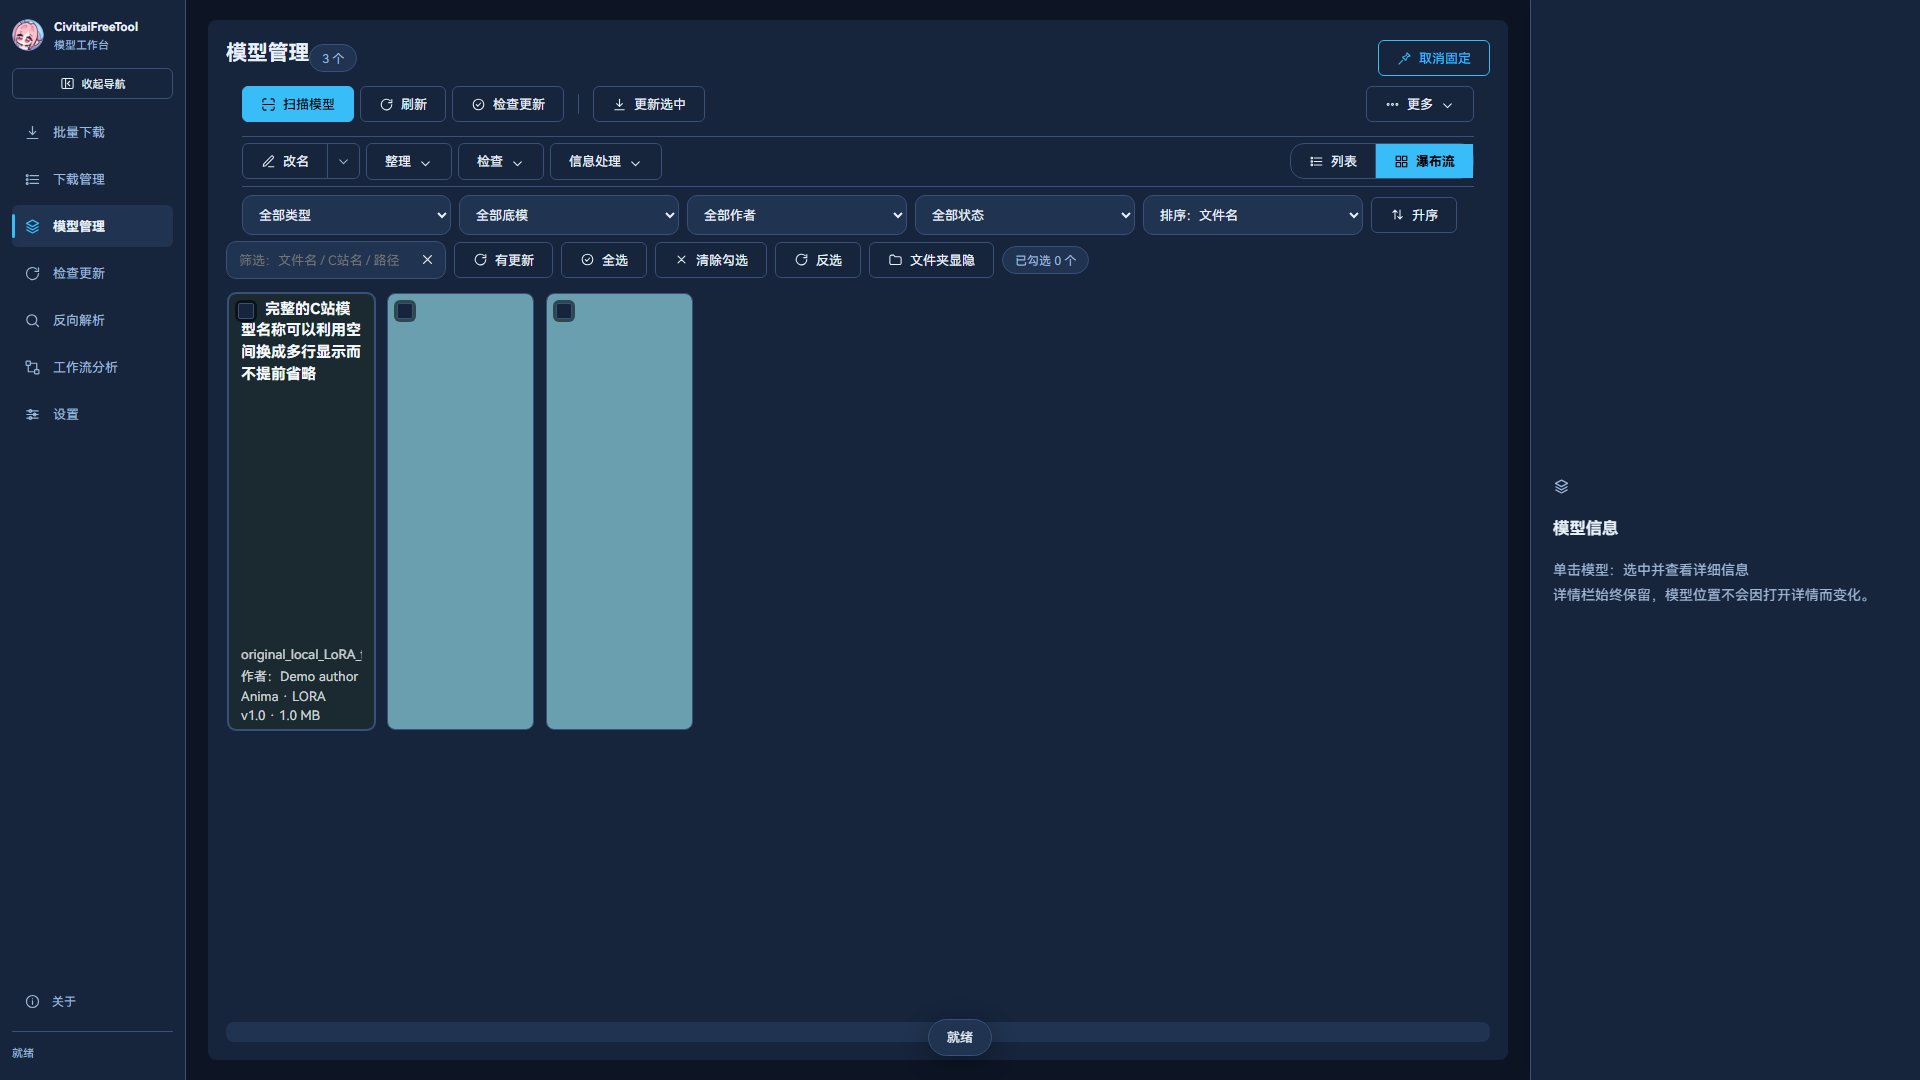
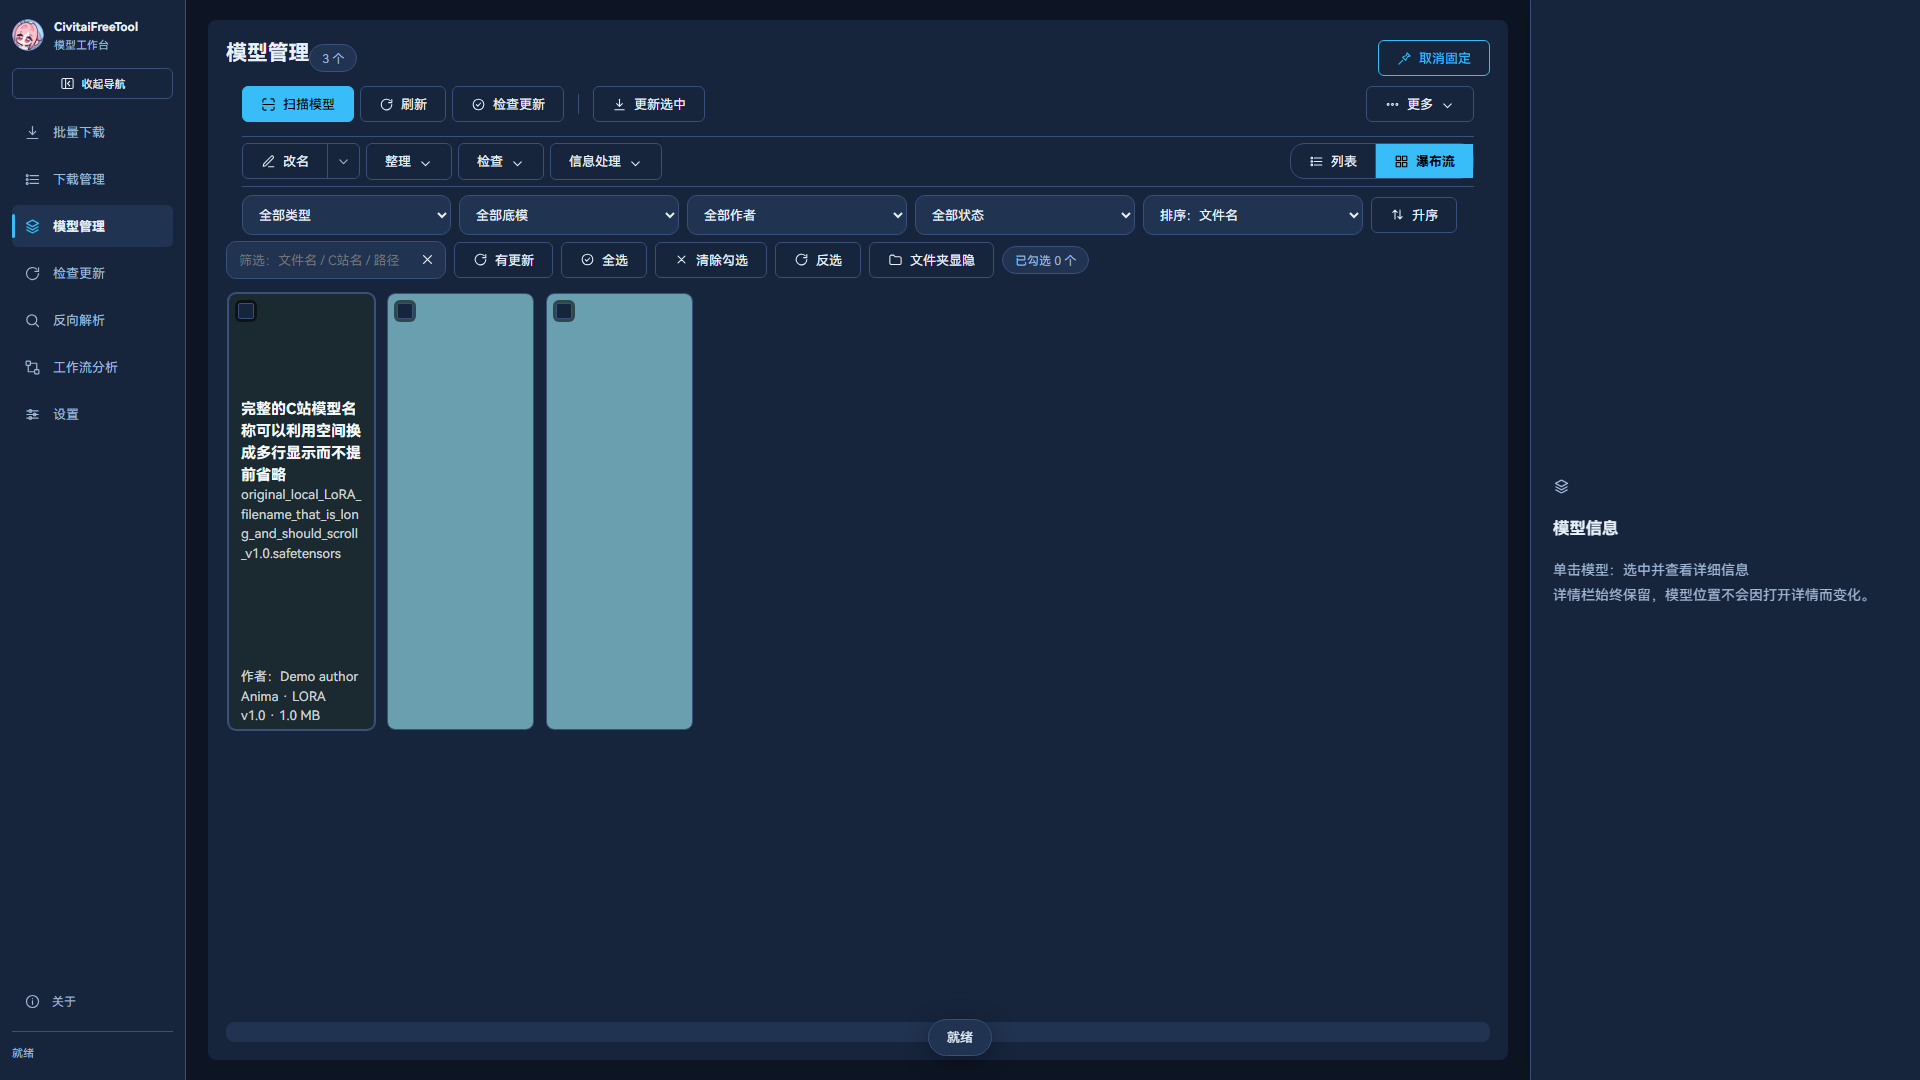
v2.6.21: center adaptive model names above fixed metadata

Changed region(s): [[0.125, 0.275, 0.1875, 0.5194], [0.125, 0.5806, 0.1875, 0.6111]]

diff --git a/web/model-name-scroll.js b/web/model-name-scroll.js
@@ -1,7 +1,7 @@
 /* Only clipped model names animate. Offscreen names and hidden pages are paused. */
 (()=>{
   const selectors='.ms-name,.ms-sub,#mmTable .ml-1,#mmTable .ml-2,.upd-nm,.rp-fname,#dlTable .c-file>div:first-child,#dlHistoryTable .history-file-name,#dlHistoryTable .history-model';
-  const records=new Map(),phases=new Map(),motion=matchMedia('(prefers-reduced-motion: reduce)');let scheduled=false;
+  const records=new Map(),phases=new Map(),measurements=new WeakMap(),areas=new Set(),motion=matchMedia('(prefers-reduced-motion: reduce)');let scheduled=false;
   const schedule=()=>{if(!scheduled){scheduled=true;requestAnimationFrame(refresh);}};
   const resize=new ResizeObserver(schedule);
   const visible=new IntersectionObserver(entries=>{for(const e of entries){const r=records.get(e.target);if(r)r.visible=e.isIntersecting;}schedule();});
@@ -10,12 +10,39 @@
     const speed=bounded('name_scroll_speed',70,10,240),start=bounded('name_scroll_start_pause',350,0,5000),end=bounded('name_scroll_end_pause',250,0,5000);
     return {speed,start,end,signature:[speed,start,end].join(':')};
   }
+  function wrappedHeight(el,zoom){
+    const css=getComputedStyle(el),text=el.querySelector('.name-scroll-text')?.textContent||el.textContent;
+    const width=Math.max(1,el.clientWidth-parseFloat(css.paddingLeft)-parseFloat(css.paddingRight));
+    const key=[text,width,css.font,css.lineHeight,css.letterSpacing,css.textIndent].join('|');
+    const cached=measurements.get(el);if(cached?.key===key)return cached.height;
+    const probe=document.createElement('div');probe.textContent=text;
+    Object.assign(probe.style,{position:'absolute',visibility:'hidden',pointerEvents:'none',width:width+'px',font:css.font,lineHeight:css.lineHeight,letterSpacing:css.letterSpacing,textIndent:css.textIndent,whiteSpace:'normal',overflowWrap:'anywhere',padding:'0',margin:'0'});
+    document.body.append(probe);const height=probe.getBoundingClientRect().height/zoom+parseFloat(css.paddingTop)+parseFloat(css.paddingBottom);probe.remove();measurements.set(el,{key,height});return height;
+  }
+  function layoutFullNames(full,zoom){
+    if(!full)return;
+    document.querySelectorAll('.ms-titles').forEach(area=>{if(!areas.has(area)){areas.add(area);resize.observe(area);}
+      if(!area.clientHeight)return;
+      const title=area.querySelector('.ms-name'),local=area.querySelector('.ms-sub');
+      if(title.dataset.civitaiName!=='true'){
+        const mode=wrappedHeight(title,zoom)<=area.clientHeight+1?'true':'false';if(title.dataset.localWrap!==mode)title.dataset.localWrap=mode;const room=(area.clientHeight-(mode==='true'?wrappedHeight(title,zoom):title.clientHeight))/2>26?'true':'false';if(area.dataset.nameRoom!==room)area.dataset.nameRoom=room;return;
+      }
+      const css=getComputedStyle(title),line=parseFloat(css.lineHeight)||22,pad=parseFloat(css.paddingTop)+parseFloat(css.paddingBottom);
+      const localCss=local?getComputedStyle(local):null,reserve=localCss?(parseFloat(localCss.lineHeight)||20)+parseFloat(localCss.paddingTop)+parseFloat(localCss.paddingBottom):0;
+      const lines=String(Math.max(1,Math.floor((area.clientHeight-reserve-pad)/line)));
+      if(title.style.getPropertyValue('--ms-title-lines')!==lines)title.style.setProperty('--ms-title-lines',lines);
+      if(local){const room=area.clientHeight-title.getBoundingClientRect().height/zoom;const mode=wrappedHeight(local,zoom)<=room+1?'true':'false';if(local.dataset.localWrap!==mode)local.dataset.localWrap=mode;}
+      const group=title.getBoundingClientRect().height/zoom+(local?local.getBoundingClientRect().height/zoom:0),room=(area.clientHeight-group)/2>26?'true':'false';if(area.dataset.nameRoom!==room)area.dataset.nameRoom=room;
+    });
+  }
   function refresh(){
     scheduled=false;
+    for(const area of areas)if(!area.isConnected){resize.unobserve(area);areas.delete(area);}
     for(const [el,r] of records)if(!el.isConnected){if(r.animation){phases.set(r.key,{time:r.animation.currentTime||0,when:performance.now(),signature:r.signature});if(phases.size>256)phases.delete(phases.keys().next().value);}r.animation?.cancel();resize.unobserve(el);visible.unobserve(el);records.delete(el);}
-    const full=document.documentElement.dataset.masonryInfo!=='always'&&document.documentElement.dataset.masonryOverlay==='full';
+    const full=document.documentElement.dataset.masonryInfo!=='always'&&document.documentElement.dataset.masonryOverlay==='full',zoom=parseFloat(getComputedStyle(document.documentElement).zoom)||1;
+    layoutFullNames(full,zoom);
     document.querySelectorAll(selectors).forEach(el=>{
-      if(full&&el.matches('.ms-name[data-civitai-name=true]')){
+      if(full&&el.matches('.ms-name[data-civitai-name=true],.ms-name[data-local-wrap=true],.ms-sub[data-local-wrap=true]')){
         const old=records.get(el);if(old?.kind==='wrap')return;
         old?.animation?.cancel();const viewport=el.querySelector('.name-scroll-viewport');if(viewport)viewport.replaceWith(document.createTextNode(viewport.textContent));
         el.classList.remove('has-name-scroll');if(!el.title)el.title=el.textContent.trim();records.set(el,{kind:'wrap',visible:false,animation:null});resize.observe(el);return;
@@ -27,13 +54,9 @@
       texts[0].before(viewport);texts.forEach(n=>n.remove());el.classList.add('has-name-scroll');if(!el.title)el.title=name;
       const owner=el.closest('[data-path],[data-task-id],[data-history-id]'),key=(owner?.dataset.path||owner?.dataset.taskId||owner?.dataset.historyId||'')+'|'+name;const old=records.get(el);old?.animation?.cancel();records.set(el,{kind:'scroll',viewport,text,key,visible:false,distance:0,animation:null});resize.observe(el);visible.observe(el);
     });
-    const zoom=parseFloat(getComputedStyle(document.documentElement).zoom)||1,prefs=options();
+    const prefs=options();
     for(const [el,r] of records){
-      if(r.kind==='wrap'){
-        const css=getComputedStyle(el),line=parseFloat(css.lineHeight)||22,space=el.clientHeight-parseFloat(css.paddingTop)-parseFloat(css.paddingBottom),lines=String(Math.max(1,Math.floor(space/line)));
-        if(el.style.getPropertyValue('--ms-title-lines')!==lines)el.style.setProperty('--ms-title-lines',lines);
-        continue;
-      }
+      if(r.kind==='wrap')continue;
       if(r.signature!==prefs.signature){const changed=r.signature!==undefined;r.animation?.cancel();r.animation=null;r.signature=prefs.signature;if(changed)phases.delete(r.key);r.viewport.classList.remove('running');}
       const distance=Math.max(0,Math.ceil(r.text.getBoundingClientRect().width/zoom-r.viewport.clientWidth));
       if(distance!==r.distance||motion.matches){r.animation?.cancel();r.animation=null;r.distance=distance;r.viewport.classList.remove('running');}

diff --git a/web/workbench.css b/web/workbench.css
@@ -545,3 +545,16 @@ html[data-masonry-info]:not([data-masonry-info=always])[data-masonry-overlay=ful
 html[data-masonry-info]:not([data-masonry-info=always])[data-masonry-overlay=full] .ms-size{padding-bottom:3px;}
 
 html[data-masonry-info]:not([data-masonry-info=always])[data-masonry-overlay=full] .ms-name:not([data-civitai-name=true]){flex:none;padding:4px 12px 0 36px;}
+
+/* Names stay together. Only the metadata footer is pinned to the bottom. */
+html[data-masonry-info]:not([data-masonry-info=always])[data-masonry-overlay=full] .ms-titles{flex:1 1 0;min-height:calc(26px * var(--type-scale,1));overflow:hidden;}
+html[data-masonry-info]:not([data-masonry-info=always])[data-masonry-overlay=full] .ms-titles:has(.ms-sub){min-height:calc(46px * var(--type-scale,1));}
+html[data-masonry-info]:not([data-masonry-info=always])[data-masonry-overlay=full] .ms-titles .ms-name{flex:none;min-height:0;}
+html[data-masonry-info]:not([data-masonry-info=always])[data-masonry-overlay=full] .ms-sub[data-local-wrap=true],
+html[data-masonry-info]:not([data-masonry-info=always])[data-masonry-overlay=full] .ms-name[data-civitai-name=false][data-local-wrap=true]{display:block!important;white-space:normal!important;overflow-wrap:anywhere;-webkit-line-clamp:unset;text-overflow:clip;}
+
+/* Center both names together within the space above the unchanged footer. */
+html[data-masonry-info]:not([data-masonry-info=always])[data-masonry-overlay=full] .ms-titles{display:flex;flex-direction:column;justify-content:safe center;}
+
+html[data-masonry-info]:not([data-masonry-info=always])[data-masonry-overlay=full] .ms-titles[data-name-room=true] .ms-name{text-indent:0;}
+html[data-masonry-info]:not([data-masonry-info=always])[data-masonry-overlay=full] .ms-titles[data-name-room=true] .ms-name[data-civitai-name=false]{padding-left:12px;}

diff --git a/web/app.js b/web/app.js
@@ -1734,9 +1734,9 @@ function renderMasonry(rows) {
       _msTag(r) +
       (r.upd && r.upd.has_update ? '<a href="#" class="ms-upd" data-url="' + esc(r.upd.url || "") + '" title="' + esc(updTip(r.upd)) + '">' + _icon("alert") + '</a>' : "") +
       '<div class="ms-img-wrap" data-ph="loading"><img class="ms-img" data-idx="' + i + '" data-path="' + esc(r.path) + '" alt=""/></div>' +
-      '<div class="ms-info"><div class="ms-name" data-civitai-name="' + (_cn ? 'true' : 'false') + '">' + (isModelFavorite(r.path)?_icon('star','ic model-star'):'') + esc(_disp) + "</div>" +
-      '<div class="ms-footer">' +
+      '<div class="ms-info"><div class="ms-titles"><div class="ms-name" data-civitai-name="' + (_cn ? 'true' : 'false') + '">' + (isModelFavorite(r.path)?_icon('star','ic model-star'):'') + esc(_disp) + "</div>" +
       (_sub ? '<div class="ms-sub">' + esc(_sub) + "</div>" : "") +
+      '</div><div class="ms-footer">' +
       (r.author ? '<div class="ms-author" title="' + esc(r.author) + '">作者：' + esc(r.author) + '</div>' : '') +
       '<div class="ms-meta">' + esc(_meta || (r.type || "-")) + "</div>" +
       '<div class="ms-size">' + esc(_meta2 || fmtSize(r.size)) + "</div></div></div></div>";

diff --git a/webui.py b/webui.py
@@ -13,7 +13,7 @@ import time
 
 import webview
 
-APP_VERSION = "2.6.20"
+APP_VERSION = "2.6.21"
 
 import civitai_api
 import config

diff --git a/README.md b/README.md
@@ -2,13 +2,13 @@
 
 > 免费的 Civitai / HuggingFace 模型下载与本地模型管理工作台。
 
-![Version](https://img.shields.io/badge/version-2.6.20-blue) ![Platform](https://img.shields.io/badge/platform-Windows%20%7C%20Linux%20%7C%20macOS-orange) ![CI](https://github.com/ADVICEsama/CivitaiFreeTool/workflows/tests/badge.svg)
+![Version](https://img.shields.io/badge/version-2.6.21-blue) ![Platform](https://img.shields.io/badge/platform-Windows%20%7C%20Linux%20%7C%20macOS-orange) ![CI](https://github.com/ADVICEsama/CivitaiFreeTool/workflows/tests/badge.svg)
 
 [下载最新版](https://github.com/ADVICEsama/CivitaiFreeTool/releases/latest) · [更新日志](CHANGELOG.md) · [问题反馈](https://github.com/ADVICEsama/CivitaiFreeTool/issues) · [Linux / macOS](LINUX.md)
 
 ## 当前工作台
 
-- **名称显示与可调滚动**：整卡悬浮时 C站名称使用剩余空间换多行，放不下才省略；本地 LoRA 文件名单行滚动，作者、类型、版本及大小置底。外观设置可调速度和首尾停顿，默认 70px/秒、350/250 毫秒。短单行名字不动，屏幕外暂停，不改变卡片和列宽。
+- **名称显示与可调滚动**：整卡悬浮时 C站名称与本地文件名紧接为一组，在底部资料上方垂直居中。C站名优先换行、放不下才省略；本地名空间够就完整换行，不够才单行滚动。作者、类型、版本及大小置底。外观设置可调速度和首尾停顿，默认 70px/秒、350/250 毫秒。短单行名字不动，屏幕外暂停，不改变卡片和列宽。
 - **原生窗口恢复**：首次加载后核实窗口真的可见；重复打开按实例 PID 恢复窗口，不误认同名文件管理器，不擅自改浏览器模式。
 - **瀑布流悬浮介绍**：设置 → 外观与布局可选常驻、封面悬停滑出或淡入；覆盖下方或整个卡片。深色半透明底 + 大号文字，亮色主题自动换亮底深字，本地文件名始终单行。
 - **透明表格与宽屏适配**：原生 Mica 客户区材质可透过下载表格及斑马纹；更新页宽屏铺满、窄窗按需滚动，菜单说明不会被二级菜单盖住。
@@ -50,7 +50,7 @@
 
 ### 瀑布流：只看封面，悬停显示大号介绍
 
-左侧卡片处于悬停状态，右侧只显示封面；截图为“淡入 + 整个卡片”，主名称利用上方空间换行，辅助资料置底。支持滑出 / 淡入、部分 / 整卡片覆盖，默认仍为常驻介绍。
+左侧卡片处于悬停状态，右侧只显示封面；截图为“淡入 + 整个卡片”，两种名称相邻成组、在上方剩余区域居中，空间足够时都完整换行；辅助资料置底。支持滑出 / 淡入、部分 / 整卡片覆盖，默认仍为常驻介绍。
 
 ![整卡名称空间分配](docs/screenshots/masonry-full-names.png)
 

diff --git a/CHANGELOG.md b/CHANGELOG.md
@@ -1,4 +1,16 @@
-# CivitaiFreeTool 更新日志（v1.5.1 → v2.6.20）
+# CivitaiFreeTool 更新日志（v1.5.1 → v2.6.21）
+
+## v2.6.21：整卡双名称自适应（2026-10-10）
+
+- 修复 C站名称被强行撑满整个名称区、本地文件名被挤入底部资料，导致两种名称之间出现大块固定空隙。两种名称现在紧接排布，作为一个组在底部资料上方的剩余区域内垂直居中；作者、分类、版本与大小仍置底。
+- 整卡剩余空间足够时，本地文件名也完整换行显示，不播放滚动动画；放不下时才恢复单行滚动。卡片缩小/放大、全局字号及缩放改变后重新判断，不需要用户额外开关。
+- C站名称优先使用可用行数，能显示全就显示全，放不下才省略；为本地名至少保留一行。没有 C站信息的模型，本地名称同样按实际空间决定换行或滚动。
+- 部分覆盖及常驻样式不变；名称滚动设置保留 v2.6.20 的 70px/秒、350/250 毫秒默认值及用户自定义值。
+- 按真实字体和宽度测量文本，缓存测量结果；屏幕外动画仍暂停，临时测量元素不参与卡片布局，不移动模型文件。
+
+验证：280 项后端、484 项前端、17 项桥服务、10 项来源检查，共 791 项。整卡名称检查覆盖大卡片完整显示、小卡片恢复滚动、放大取消动画、缺失 C站名称、底部资料与设置持久化。原生窗口启动逻辑未改动；安装后另行核实原生窗口可见、队列和配置保留。
+
+发行附件：EXE、Windows 便携 ZIP、源码 ZIP、Chrome / Firefox 独立 ZIP、SHA256。扩展 v1.2.0，Firefox ZIP 未签名。配置、API Key、任务、缓存及私人备份不进入源码或发行包。
 
 ## v2.6.20：整卡名称空间分配与可调滚动（2026-10-10）
 

diff --git a/docs/releases/v2.6.21.md b/docs/releases/v2.6.21.md
@@ -1,0 +1,11 @@
+## v2.6.21：整卡双名称自适应（2026-10-10）
+
+- 修复 C站名称被强行撑满整个名称区、本地文件名被挤入底部资料，导致两种名称之间出现大块固定空隙。两种名称现在紧接排布，作为一个组在底部资料上方的剩余区域内垂直居中；作者、分类、版本与大小仍置底。
+- 整卡剩余空间足够时，本地文件名也完整换行显示，不播放滚动动画；放不下时才恢复单行滚动。卡片缩小/放大、全局字号及缩放改变后重新判断，不需要用户额外开关。
+- C站名称优先使用可用行数，能显示全就显示全，放不下才省略；为本地名至少保留一行。没有 C站信息的模型，本地名称同样按实际空间决定换行或滚动。
+- 部分覆盖及常驻样式不变；名称滚动设置保留 v2.6.20 的 70px/秒、350/250 毫秒默认值及用户自定义值。
+- 按真实字体和宽度测量文本，缓存测量结果；屏幕外动画仍暂停，临时测量元素不参与卡片布局，不移动模型文件。
+
+验证：280 项后端、484 项前端、17 项桥服务、10 项来源检查，共 791 项。整卡名称检查覆盖大卡片完整显示、小卡片恢复滚动、放大取消动画、缺失 C站名称、底部资料与设置持久化。原生窗口启动逻辑未改动；安装后另行核实原生窗口可见、队列和配置保留。
+
+发行附件：EXE、Windows 便携 ZIP、源码 ZIP、Chrome / Firefox 独立 ZIP、SHA256。扩展 v1.2.0，Firefox ZIP 未签名。配置、API Key、任务、缓存及私人备份不进入源码或发行包。
